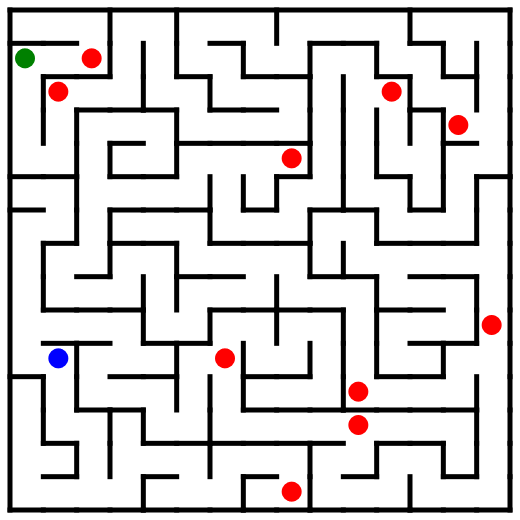
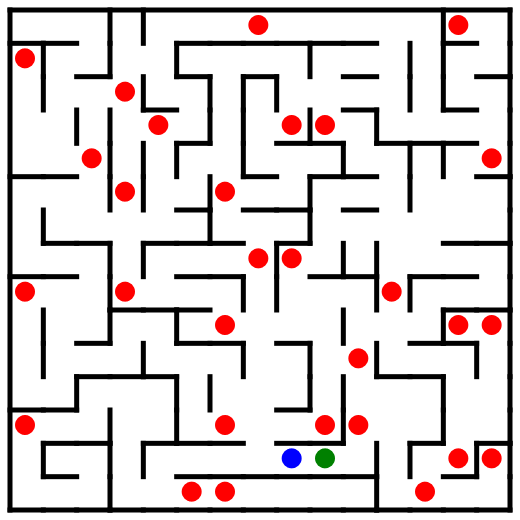
Some private methods added as helpers. There are more traps and less walls.

diff --git a/maze.py b/maze.py
@@ -22,10 +22,11 @@ DOWN = 'S'
 LEFT = 'E'
 RIGHT = 'W'
 
+
 class Maze:
     """A Maze, represented as a grid of cells."""
 
-    def __init__(self, nx, ny, ix=0, iy=0, num_traps=10):
+    def __init__(self, nx, ny, ix=0, iy=0):
         """Initialize the maze grid.
         The maze consists of nx x ny cells and will be constructed starting
         at the cell indexed at (ix, iy).
@@ -36,21 +37,24 @@ class Maze:
         self.ix, self.iy = ix, iy
         self.svg_name = "maze.svg"
         self.maze_map = [[Cell(x, y, maze_size=nx) for y in range(ny)] for x in range(nx)]
-
-        # Generating the traps
-        for i in range(num_traps):
-            _x, _y = self.__generate_random_position(nx, ny)
-            w = randint(2, 9)
-            self.cell_at(_x, _y).occupied = True
-            self.cell_at(_x, _y).update_weight(w)
-
         self.__current_position = None
         self.__objective_position = None
+
         # Generate the initial position
         self.__initialize_current_position()
 
         # Generate objective position
         self.__create_objective()
+
+        # Generating the traps
+        self.__generate_random_traps(max(nx, ny)*2)
+
+    def __generate_random_traps(self, traps):
+        for i in range(traps):
+            _x, _y = self.__generate_random_position(self.nx, self.ny)
+            w = randint(2, 9)
+            self.cell_at(_x, _y).occupied = True
+            self.cell_at(_x, _y).update_weight(w)
 
     def __generate_random_position(self, x, y):
         while True:
@@ -228,10 +232,28 @@ class Maze:
 
             # Choose a random neighbouring cell and move to it.
             direction, next_cell = choice(neighbours)
+            # print(neighbours)
             current_cell.knock_down_wall(next_cell, direction)
             cell_stack.append(current_cell)
             current_cell = next_cell
             nv += 1
+
+        self.__erase_random_walls()
+
+    def __erase_random_walls(self, n=None):
+        if not n:
+            n = int((self.nx*self.ny) / 3)
+
+        for i in range(n):
+            rand_x = randint(1, self.nx-2)
+            rand_y = randint(1, self.ny-2)
+            current_cell = self.cell_at(rand_x, rand_y)
+
+            walls = current_cell.walls
+            for key, value in walls.items():
+                if value:
+                    current_cell.walls[key] = False
+                    break
 
 
 def add_edge(u, v, graph):
@@ -275,7 +297,15 @@ def main():
 
     maze = Maze(nx, ny, ix, iy)
     maze.make_maze()
-
+    """
+    maze.write_svg(svg_name)
+    draw = svg2rlg(svg_name)
+    renderPM.drawToFile(draw, image_name, fmt='PNG')
+    img = mpimg.imread(image_name)
+    plt.imshow(img)
+    plt.draw()
+    plt.show()
+    """
     graph = generate_graph(maze, nx, ny)
     print(maze.get_current_position())
     print(maze.get_objective_position())
@@ -285,13 +315,14 @@ def main():
     path = graph.dijsktra(source=maze.cell_at(source[0], source[1]).get_id(),
                           destination=maze.cell_at(destination[0], destination[1]).get_id())
 
+    # print(graph)
     for i in range(len(path)):
         x, y = path[i][:2]
         path[i] = (floor(x/nx), y % ny)
 
     for p in path:
         new_position = tuple(p[:2])
-        print(new_position)
+        # print(new_position)
         maze.update_current_position(new_position)
         maze.write_svg(svg_name)
         draw = svg2rlg(svg_name)
